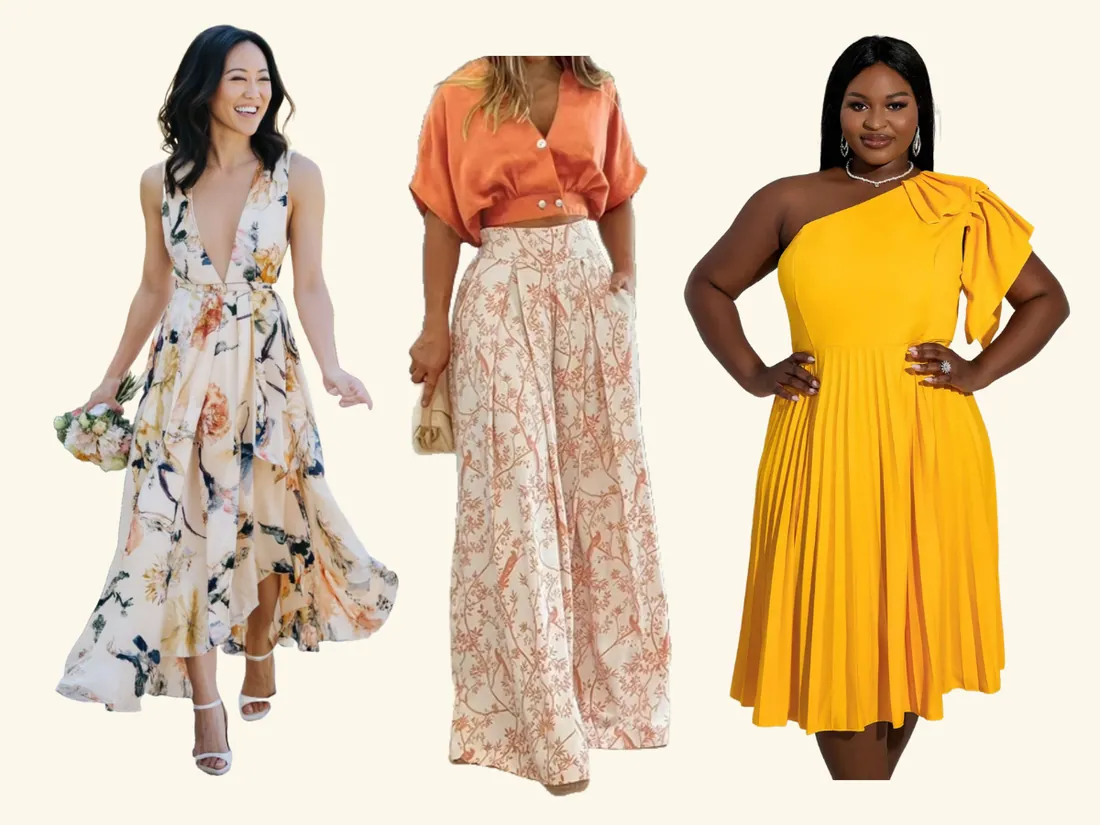
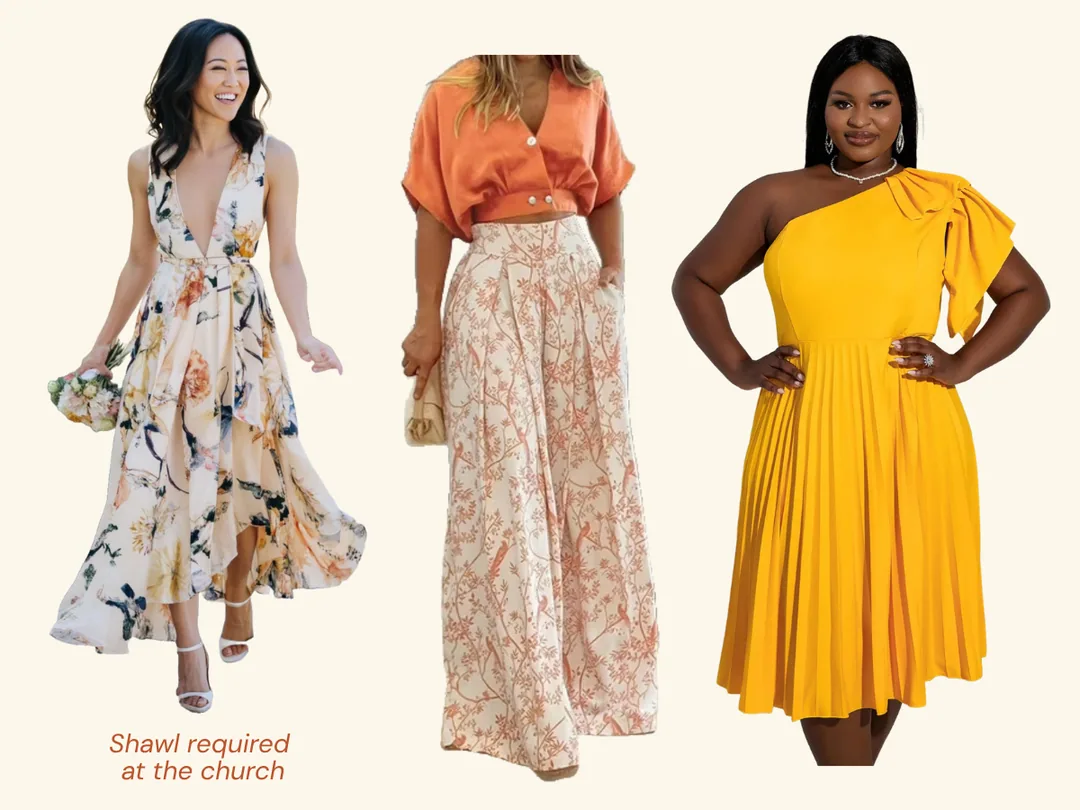
chapter 2, dress code updates, fix mga ganap margins

Changed region(s): [[0.0306, 0.0, 0.3667, 0.9877]]

diff --git a/src/components/OurStorySection.tsx b/src/components/OurStorySection.tsx
@@ -1,19 +1,66 @@
+'use client'
+
+import { useState } from 'react'
 import Carousel from './Carousel'
 
-const SLIDES = Array.from({ length: 11 }, (_, i) => ({
-  src: `/assets/our-story/chapter-1/chapter1-${i + 1}.webp`,
-  alt: `Our story — slide ${i + 1} of 11`,
-}))
+const CHAPTERS = [
+  {
+    n: 1,
+    label: 'Chapter 1',
+    dir: 'chapter-1',
+    prefix: 'chapter1',
+    count: 11,
+  },
+  {
+    n: 2,
+    label: 'Chapter 2',
+    dir: 'chapter-2',
+    prefix: 'chapter2',
+    count: 15,
+  },
+] as const
+
+function slidesFor(c: (typeof CHAPTERS)[number]) {
+  return Array.from({ length: c.count }, (_, i) => ({
+    src: `/assets/our-story/${c.dir}/${c.prefix}-${i + 1}.webp`,
+    alt: `Our story, ${c.label} — slide ${i + 1} of ${c.count}`,
+  }))
+}
 
 export default function OurStorySection() {
+  // Chapter 2 is the current chapter, shown first.
+  const [active, setActive] = useState(1) // index into CHAPTERS → Chapter 2
+  const chapter = CHAPTERS[active]
+
   return (
     <div id="our-story" className="bg-cream text-forest py-16 space-y-4">
       <h2 className="font-serif text-4xl font-bold text-center px-5">Our Story</h2>
 
-      {/* Edge-to-edge on phones; capped + centered on wider screens */}
+      {/* Chapter switch — segmented pill toggle (matches the site's rounded-full idiom) */}
+      <div className="flex justify-center px-5">
+        <div className="inline-flex rounded-full bg-forest/10 p-1">
+          {CHAPTERS.map((c, idx) => (
+            <button
+              key={c.n}
+              type="button"
+              onClick={() => setActive(idx)}
+              aria-pressed={active === idx}
+              className={`rounded-full px-5 py-1.5 font-sans text-sm font-medium transition-colors ${
+                active === idx ? 'bg-forest text-cream' : 'text-forest/55 hover:text-forest'
+              }`}
+            >
+              {c.label}
+            </button>
+          ))}
+        </div>
+      </div>
+
+      {/* Edge-to-edge on phones; capped + centered on wider screens.
+          key forces a fresh carousel (resets to slide 1) when the chapter changes. */}
       <div className="sm:max-w-md sm:mx-auto">
         <Carousel
-          slides={SLIDES}
+          key={chapter.n}
+          slides={slidesFor(chapter)}
           aspectClass="aspect-[4/5]"
           hint="swipe through our story →"
         />

diff --git a/src/components/DressCodeSection.tsx b/src/components/DressCodeSection.tsx
@@ -15,6 +15,15 @@ const INSPO_SLIDES = INSPO.map((name, i) => ({
   alt: `Dress code inspiration ${i + 1}`,
 }))
 
+// Church attire guidelines — applies to the ceremony only.
+const GUIDELINES: { ok: boolean; text: string }[] = [
+  { ok: false, text: 'No plunging necklines or backlines' },
+  { ok: false, text: 'No mini skirts' },
+  { ok: false, text: 'No flimsy materials for tops/bottoms that are transparent' },
+  { ok: false, text: 'No slits extending beyond the mid-upper leg area' },
+  { ok: true,  text: 'Use shawls to cover up if needed' },
+]
+
 export default function DressCodeSection() {
   return (
     <div id="dress-code" className="bg-cream text-forest py-16 overflow-hidden">
@@ -49,6 +58,29 @@ export default function DressCodeSection() {
             aspectClass="aspect-[4/3]"
             hint="swipe for more looks →"
           />
+        </div>
+
+        {/* Church attire guidelines */}
+        <div className="space-y-3">
+          <p className="font-sans text-base font-medium text-brown text-center leading-snug">
+            Just a reminder that the ceremony is in a church, so please keep it
+            church-appropriate.
+          </p>
+          <div className="rounded-2xl bg-white border border-forest/10 p-5 space-y-2.5">
+            <p className="font-sans text-sm font-bold text-forest">
+              Rules from the church:
+            </p>
+            {GUIDELINES.map((g) => (
+              <div key={g.text} className="flex items-start gap-2.5">
+                <span aria-hidden className="flex-shrink-0 leading-6">
+                  {g.ok ? '✅' : '❌'}
+                </span>
+                <span className="font-sans text-sm text-forest/80 leading-6">
+                  {g.text}
+                </span>
+              </div>
+            ))}
+          </div>
         </div>
 
       </div>
